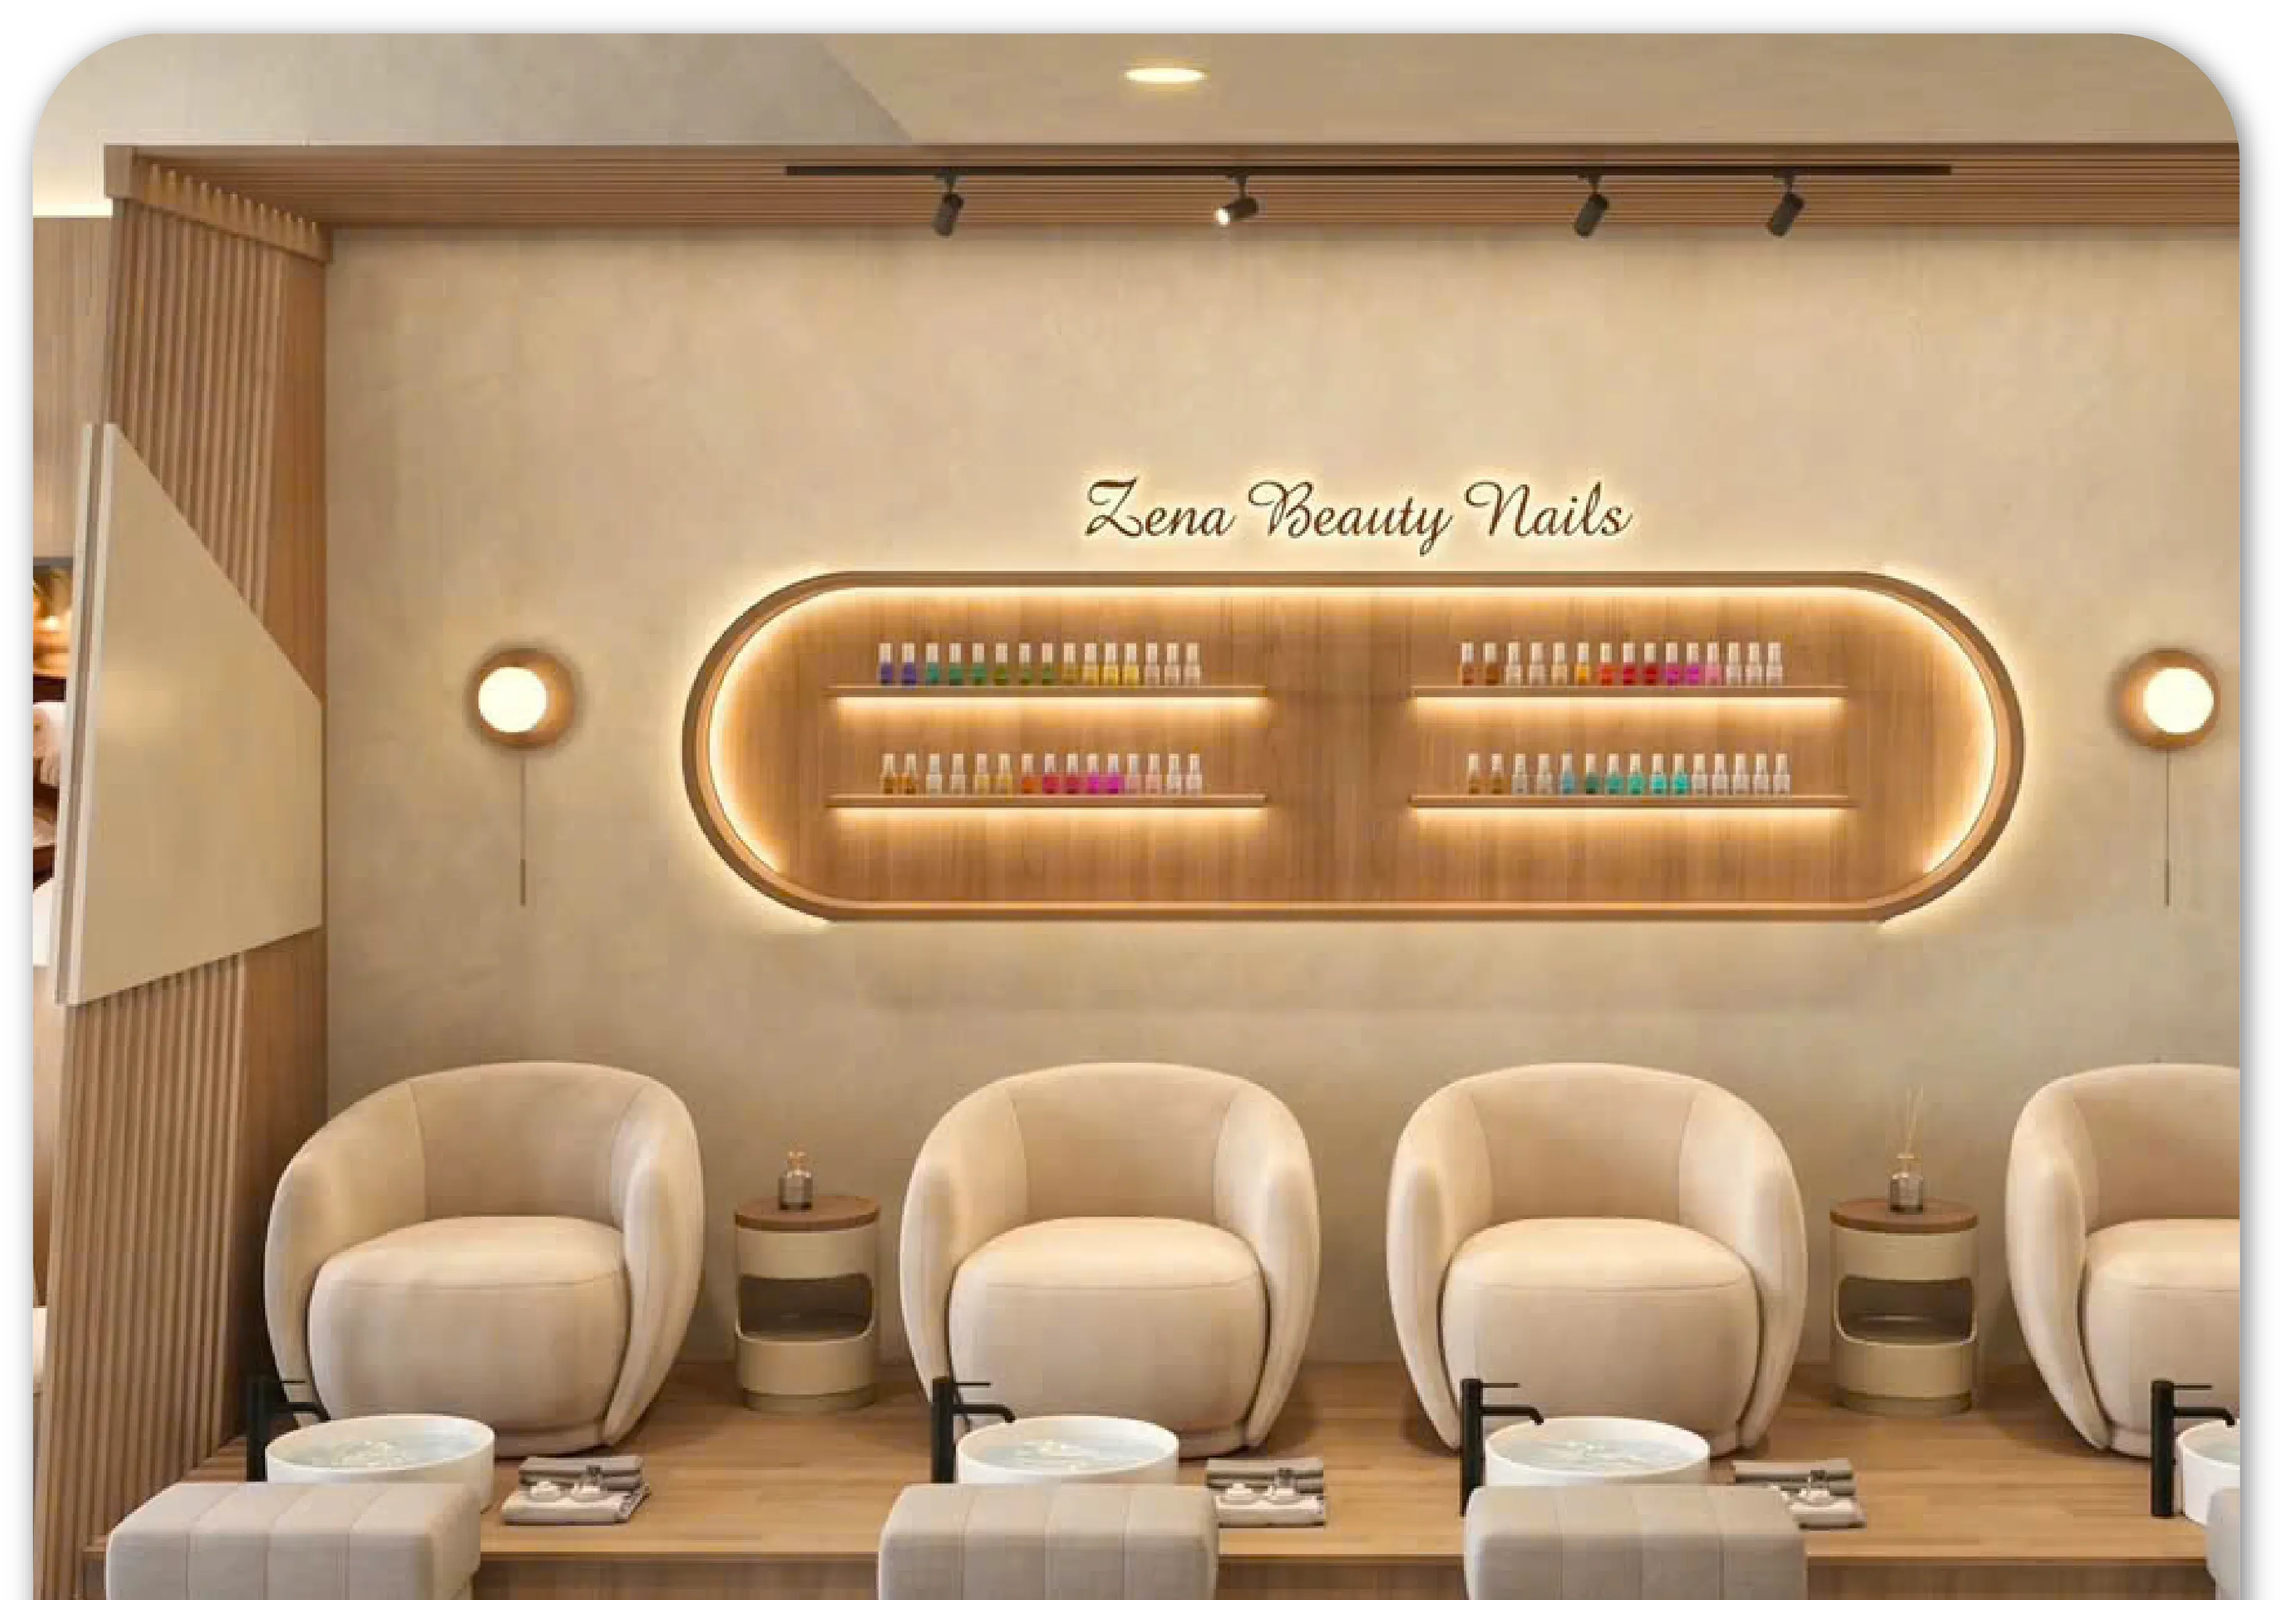
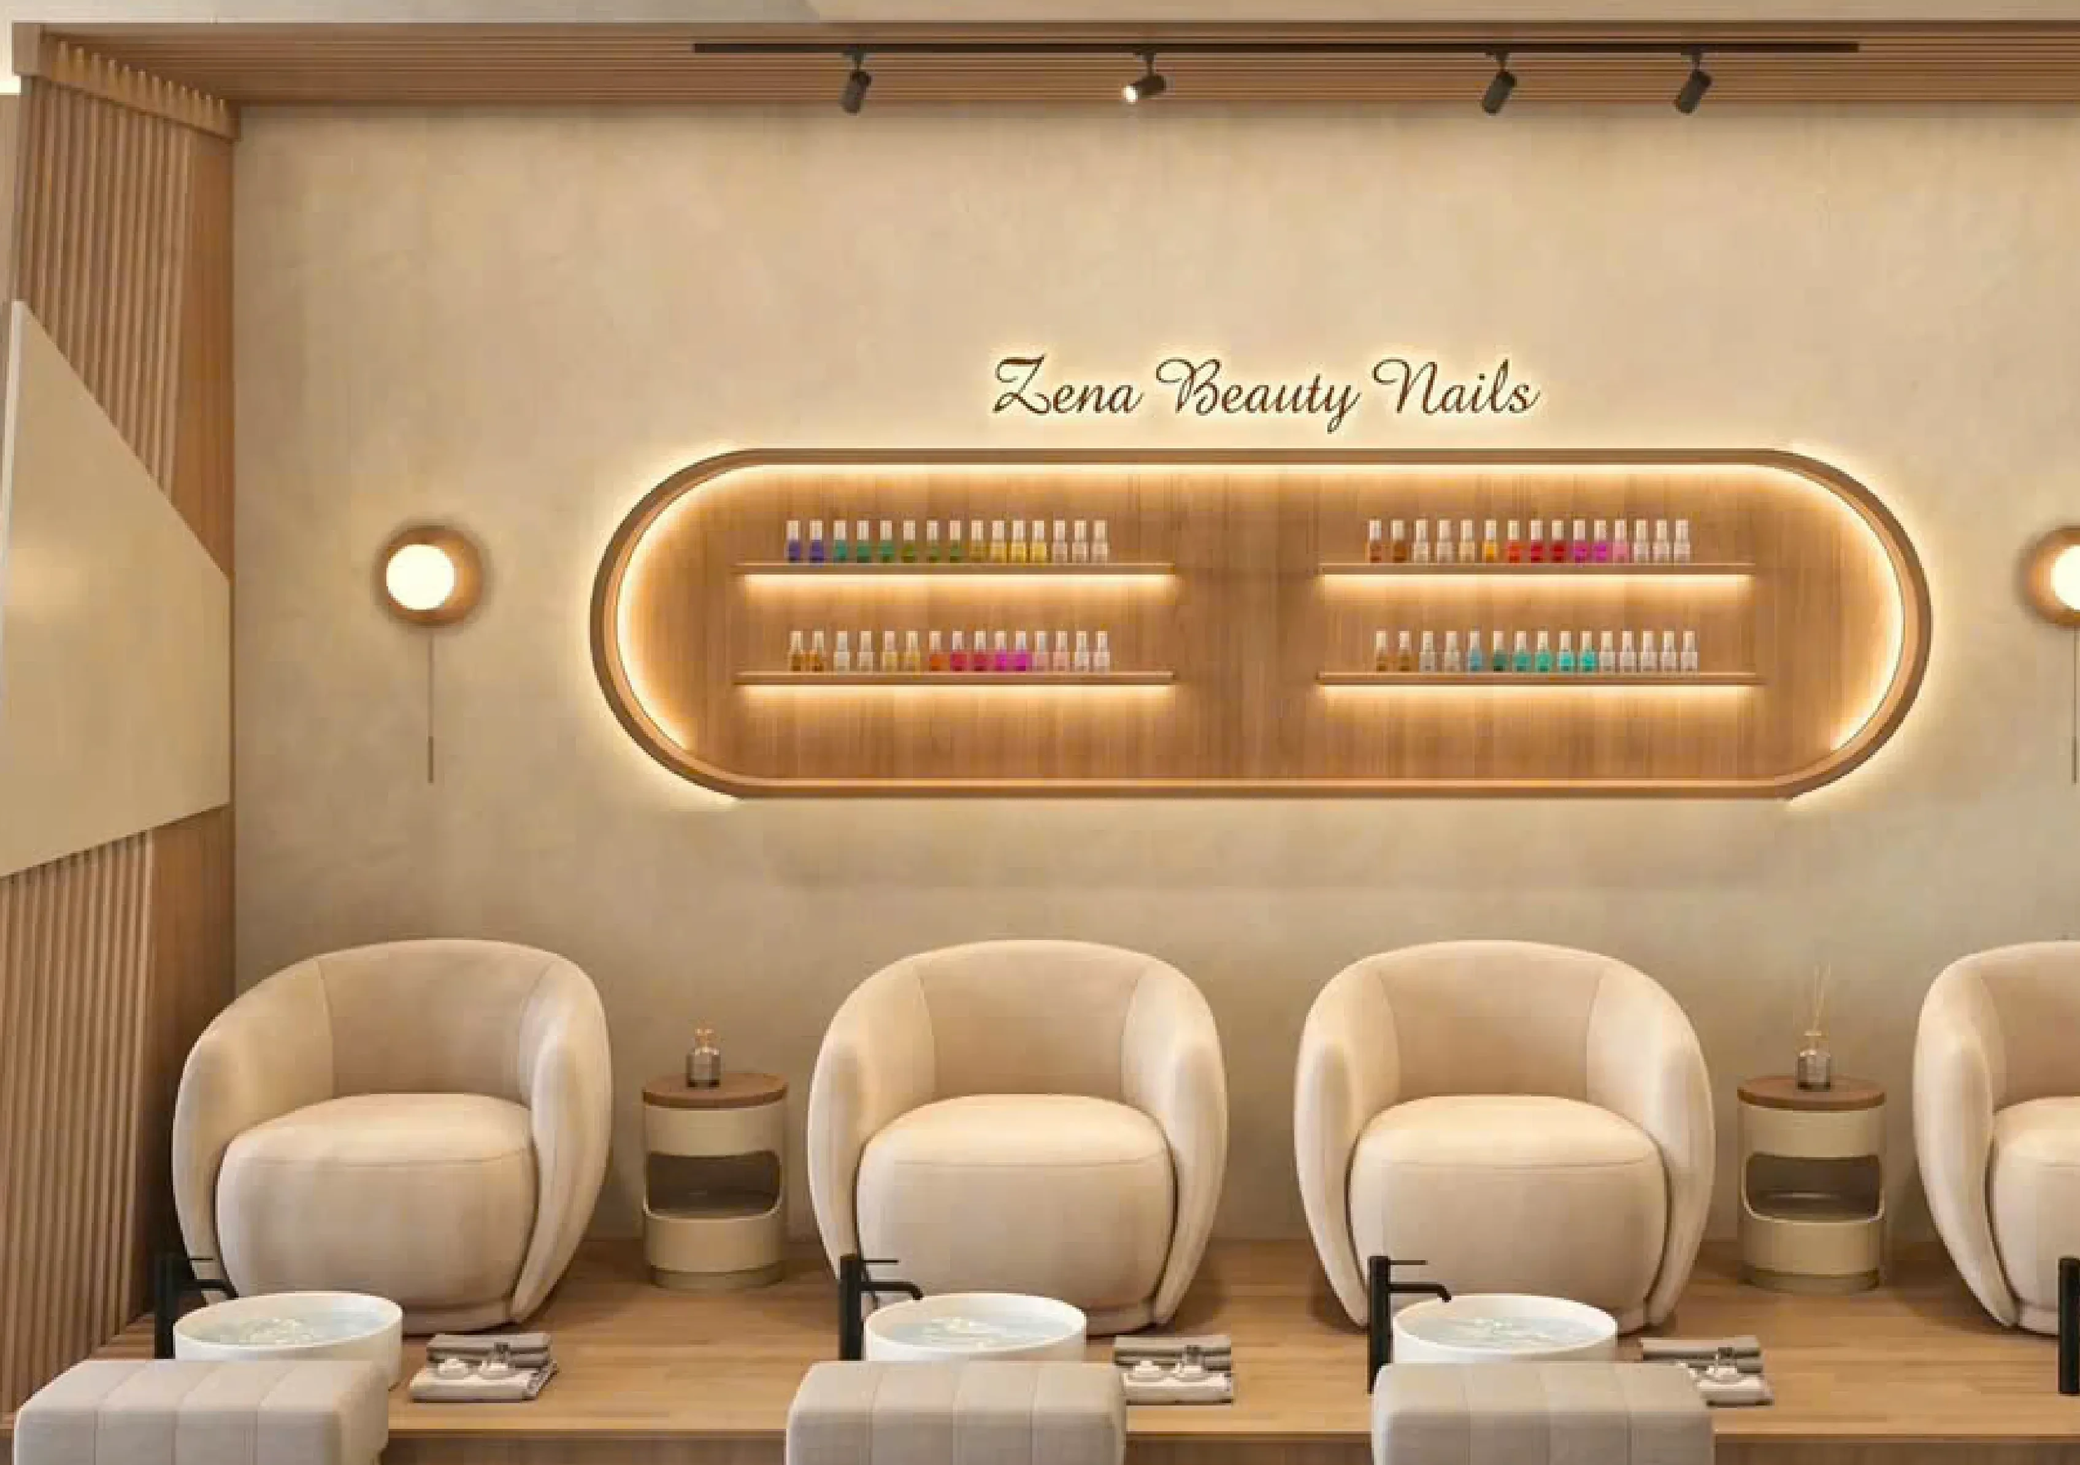
feat: :lipstick: update UI
mobile

diff --git a/features/services/components/ConstructionMobileContent.tsx b/features/services/components/ConstructionMobileContent.tsx
@@ -62,12 +62,17 @@ export function ConstructionMobileHero() {
           {/* Bóng nền — 5 lớp Y HỆT desktop (`ConstructionServicePage`), toạ độ
               được chiếu từ bounding-box cụm diamond desktop sang bounding-box
               cụm diamond mobile (khung này). `z-[1]` (dưới diamonds) nên chỉ
-              hiện ở khoảng trống. Fade-in lần lượt, delay tăng dần. */}
-          <Reveal
+              hiện ở khoảng trống.
+
+              KHÔNG bọc Reveal/fade-in: 5 lớp `mix-blend-multiply` chồng nhau
+              cùng animate opacity ngay lúc trang vừa tải rất tốn để trình
+              duyệt vẽ lại mỗi frame (blend mode không thể chỉ nhờ compositor
+              như opacity thường), chiếm luôn main thread đúng lúc người dùng
+              vuốt lần đầu — vuốt đó bị nuốt, phải vuốt lần 2 mới cuộn được.
+              Hiện tĩnh ngay từ đầu (không mất thẩm mỹ vì đây chỉ là bóng nền
+              mờ phía sau, không phải nội dung chính cần gây chú ý). */}
+          <div
             className="pointer-events-none absolute top-[44%] left-[-15%] z-[1] h-[56%] w-[140%]"
-            delay={200}
-            duration={750}
-            from="fade"
             aria-hidden="true"
           >
             <Image
@@ -78,12 +83,9 @@ export function ConstructionMobileHero() {
               sizes="130vw"
               aria-hidden="true"
             />
-          </Reveal>
-          <Reveal
+          </div>
+          <div
             className="pointer-events-none absolute top-[50%] left-[-15%] z-[1] h-[56%] w-[140%]"
-            delay={340}
-            duration={750}
-            from="fade"
             aria-hidden="true"
           >
             <Image
@@ -94,12 +96,9 @@ export function ConstructionMobileHero() {
               sizes="130vw"
               aria-hidden="true"
             />
-          </Reveal>
-          <Reveal
+          </div>
+          <div
             className="pointer-events-none absolute top-[58%] left-[-8%] z-[1] h-[43%] w-[111%] -rotate-90"
-            delay={480}
-            duration={750}
-            from="fade"
             aria-hidden="true"
           >
             <Image
@@ -110,12 +109,9 @@ export function ConstructionMobileHero() {
               sizes="110vw"
               aria-hidden="true"
             />
-          </Reveal>
-          <Reveal
+          </div>
+          <div
             className="pointer-events-none absolute top-[57%] left-[-44%] z-[1] h-[53%] w-[126%] rotate-90 opacity-40"
-            delay={620}
-            duration={750}
-            from="fade"
             aria-hidden="true"
           >
             <Image
@@ -126,12 +122,9 @@ export function ConstructionMobileHero() {
               sizes="120vw"
               aria-hidden="true"
             />
-          </Reveal>
-          <Reveal
+          </div>
+          <div
             className="pointer-events-none absolute top-[48%] left-[-20%] z-[1] h-[47%] w-[133%] -scale-x-100 -rotate-45 opacity-40"
-            delay={760}
-            duration={750}
-            from="fade"
             aria-hidden="true"
           >
             <Image
@@ -142,15 +135,14 @@ export function ConstructionMobileHero() {
               sizes="130vw"
               aria-hidden="true"
             />
-          </Reveal>
+          </div>
           {/* `title-diamond.png` — bên desktop nằm phía trên tiêu đề (góc phải
               banner). Mobile không có tiêu đề ở cụm này nên đặt thẳng vào GÓC
               PHẢI banner. Núm: `left`/`top`/`w`/`h`. */}
-          <Reveal
+          {/* Cũng bỏ Reveal fade-in như 5 lớp bóng trên — lý do tương tự
+              (mix-blend-multiply animate opacity gây giật lần vuốt đầu). */}
+          <div
             className="pointer-events-none absolute top-[36%] left-[64%] z-[2] h-[46%] w-[48%]"
-            delay={880}
-            duration={750}
-            from="fade"
             aria-hidden="true"
           >
             <Image
@@ -161,7 +153,7 @@ export function ConstructionMobileHero() {
               sizes="46vw"
               aria-hidden="true"
             />
-          </Reveal>
+          </div>
 
           {/* Viền sắc `#dedee1` ló ra ở cạnh trái mỗi hình — y hệt
               `HERO_BACKDROPS` bên desktop: tấm kim cương cùng kích thước, dời

diff --git a/features/services/components/ProjectCarousel.tsx b/features/services/components/ProjectCarousel.tsx
@@ -76,6 +76,10 @@ export function ProjectCarousel({
   const dragStartX = useRef<number | null>(null);
   const wrapSettleFrameRef = useRef<number | null>(null);
   const wrapResetFrameRef = useRef<number | null>(null);
+  /* Khóa trong lúc track đang trượt: nếu cho phép bấm/lướt chồng lên nhau,
+     active có thể vọt ra ngoài dải bản sao giữa trước khi handleTransitionEnd
+     kịp kéo nó về — đó là lúc carousel bị giật một nhịp. */
+  const isAnimatingRef = useRef(false);
   const logicalActive = ((active % count) + count) % count;
 
   useEffect(() => {
@@ -95,6 +99,8 @@ export function ProjectCarousel({
   }, [count, mobileInitialIndex]);
 
   const move = useCallback((direction: number) => {
+    if (direction === 0 || isAnimatingRef.current) return;
+    isAnimatingRef.current = true;
     if (wrapSettleFrameRef.current !== null) {
       cancelAnimationFrame(wrapSettleFrameRef.current);
       wrapSettleFrameRef.current = null;
@@ -106,6 +112,15 @@ export function ProjectCarousel({
     setAnimate(true);
     setActive((current) => current + direction);
   }, []);
+
+  /* Nhảy thẳng tới một dự án theo đường ngắn nhất (có thể lùi) thay vì luôn
+     tiến, để bấm chấm số 1 từ chấm số 3 chỉ lướt 1 nhịp thay vì 2. */
+  const goTo = (targetLogical: number) => {
+    let diff = targetLogical - logicalActive;
+    if (diff > count / 2) diff -= count;
+    else if (diff < -count / 2) diff += count;
+    move(diff);
+  };
 
   /* Căn track trực tiếp trong layout phase để cú đổi từ bản sao ngoài về bộ giữa
      không tạo thêm một render lệch vị trí, vốn nhìn giống như carousel reload. */
@@ -163,7 +178,10 @@ export function ProjectCarousel({
     ) {
       return;
     }
-    if (active >= count && active < count * 2) return;
+    if (active >= count && active < count * 2) {
+      isAnimatingRef.current = false;
+      return;
+    }
 
     /* Đợi trạng thái cuối của card được vẽ trọn một frame rồi mới teleport.
        Nhờ vậy thẻ phụ không bị chốt scale sớm hơn một nhịp ở điểm nối vòng. */
@@ -176,6 +194,7 @@ export function ProjectCarousel({
         });
         wrapSettleFrameRef.current = null;
         wrapResetFrameRef.current = null;
+        isAnimatingRef.current = false;
       });
     });
   };
@@ -424,21 +443,22 @@ export function ProjectCarousel({
               <span aria-hidden="true">›</span>
             )}
           </button>
-          <div
-            className="mt-3 flex items-center justify-center gap-3 md:hidden"
-            aria-hidden="true"
-          >
-            {Array.from({ length: 4 }, (_, index) => (
-              <span
+          <div className="mt-3 flex items-center justify-center gap-3 md:hidden">
+            {Array.from({ length: count }, (_, index) => (
+              <button
                 className={cn(
-                  "size-5 rounded-full border-2",
+                  "size-5 rounded-full border-2 transition-transform active:scale-90",
                   mobileInitialIndex !== undefined &&
                     "max-md:!size-[clamp(1.1rem,4.2vw,1.65rem)]",
                   index === logicalActive
                     ? "border-brand bg-brand shadow-[inset_0_0_0_3px_white]"
                     : "border-charcoal bg-white",
                 )}
+                onClick={() => goTo(index)}
+                aria-label={`Xem dự án ${index + 1}`}
+                aria-current={index === logicalActive}
                 key={index}
+                type="button"
               />
             ))}
           </div>

diff --git a/features/services/components/ProcessStepsGrid.tsx b/features/services/components/ProcessStepsGrid.tsx
@@ -86,7 +86,23 @@ export function ProcessStepsGrid({
               </div>
 
               <Reveal
-                className="absolute top-[55%] left-[43%] h-0.5 w-[12%] bg-[radial-gradient(circle,#242122_0_1px,transparent_1.5px)] bg-[length:0.5625rem_0.125rem] bg-repeat-x"
+                className="absolute top-[55%] h-0.5 bg-[radial-gradient(circle,#242122_0_1px,transparent_1.5px)] bg-[length:0.5625rem_0.125rem] bg-repeat-x"
+                style={{
+                  /* Dải chấm phải khít đúng khe hở thật giữa 2 card: mép phải
+                     card trái dừng ở 93% cột trái (bg-span có `right-[7%]`
+                     bên dưới), mép trái card phải bắt đầu ngay từ 0% cột phải
+                     (`left-0`). Cột co giãn theo %, nhưng khe `gap-x-8` giữa
+                     2 cột luôn CỐ ĐỊNH 32px — nếu tính bề rộng dải chấm bằng
+                     % thuần của cả hàng (bản cũ w-[12%]) thì màn càng rộng
+                     (iPhone 16 Pro Max...) khe hở càng co lại tương đối so
+                     với cột, khiến dải chấm tràn lấn vào card bên phải (ô
+                     2, 4, 6). Suy ra đúng từ hình học lưới 2 cột, W = bề
+                     rộng cả hàng:
+                       mép trái = 0.93 × cột trái = 0.465×(W−32px) = 46.5% − 14.88px
+                       bề rộng  = 0.07 × cột trái + 32px = 3.5% + 30.88px */
+                  left: "calc(46.5% - 14.88px)",
+                  width: "calc(3.5% + 30.88px)",
+                }}
                 delay={rowStart * 90 + 300}
                 from="fade"
                 aria-hidden="true"

diff --git a/features/services/pages/DesignServicePage.tsx b/features/services/pages/DesignServicePage.tsx
@@ -336,7 +336,7 @@ export function DesignServicePage() {
 
       <section
         id="design-process"
-        className="relative z-10 -mb-[2.342945vw] scroll-mt-16 rounded-br-[48px] bg-[#f4f4f5] pt-16 pb-[calc(4rem+2.342945vw)] max-md:pt-8 max-md:pb-[calc(2.5rem+2.342945vw)] lg:-mb-[2.57vw] lg:pb-[calc(4rem+2.57vw)]"
+        className="relative z-10 -mb-[2.342945vw] scroll-mt-16 bg-[#f4f4f5] pt-16 pb-[calc(4rem+2.342945vw)] max-md:pt-8 max-md:pb-[calc(2.5rem+2.342945vw)] lg:-mb-[2.57vw] lg:pb-[calc(4rem+2.57vw)]"
       >
         {/* Dưới md: đỉnh section 64px -> 32px và khoảng cách vạch cam -> khối 6
             bước 56px -> 24px, cho khớp mức 48px/28-32px của section cuối ở các

diff --git a/features/services/components/SolutionCards.tsx b/features/services/components/SolutionCards.tsx
@@ -58,7 +58,7 @@ export function SolutionCards({
                 className="relative aspect-[1.255] w-full overflow-hidden md:aspect-auto md:min-h-56 lg:min-h-full"
               >
                 <Image
-                  className="object-cover object-top md:object-center transition-transform duration-500 ease-out group-hover/card:scale-105 group-active/card:scale-105"
+                  className="object-cover object-top md:object-center transition-transform duration-500 ease-out md:group-hover/card:scale-105 md:group-active/card:scale-105"
                   src={card.image}
                   alt={card.titleCategory}
                   fill

diff --git a/features/services/components/MobileHeroArtwork.tsx b/features/services/components/MobileHeroArtwork.tsx
@@ -101,7 +101,7 @@ export function MobileHeroArtwork({ variant }: MobileHeroArtworkProps) {
             style={{ clipPath: clip.path }}
           >
             <Image
-              className="object-fill transition-transform duration-500 ease-out group-hover/frame:scale-105 group-active/frame:scale-105 motion-reduce:scale-100 motion-reduce:transition-none"
+              className="object-fill"
               src={preset.src}
               alt={clip.alt}
               fill

diff --git a/features/services/components/RenovationMobileContent.tsx b/features/services/components/RenovationMobileContent.tsx
@@ -273,7 +273,7 @@ function RenovationMobileSolutions() {
           >
             <div className="relative aspect-[1.255] w-full overflow-hidden">
               <Image
-                className="object-cover object-center transition-transform duration-500 ease-out group-active/card:scale-105"
+                className="object-cover object-center"
                 src={card.image}
                 alt={card.titleCategory}
                 fill

diff --git a/features/services/pages/ConstructionServicePage.tsx b/features/services/pages/ConstructionServicePage.tsx
@@ -233,7 +233,7 @@ const DIAMOND_BY_KEY = Object.fromEntries(
 
 export function ConstructionServicePage() {
   return (
-    <div className="min-h-screen bg-white text-charcoal max-md:overflow-x-hidden">
+    <div className="min-h-screen bg-white text-charcoal ">
       <SiteHeader />
 
       <ConstructionMobileHero />
